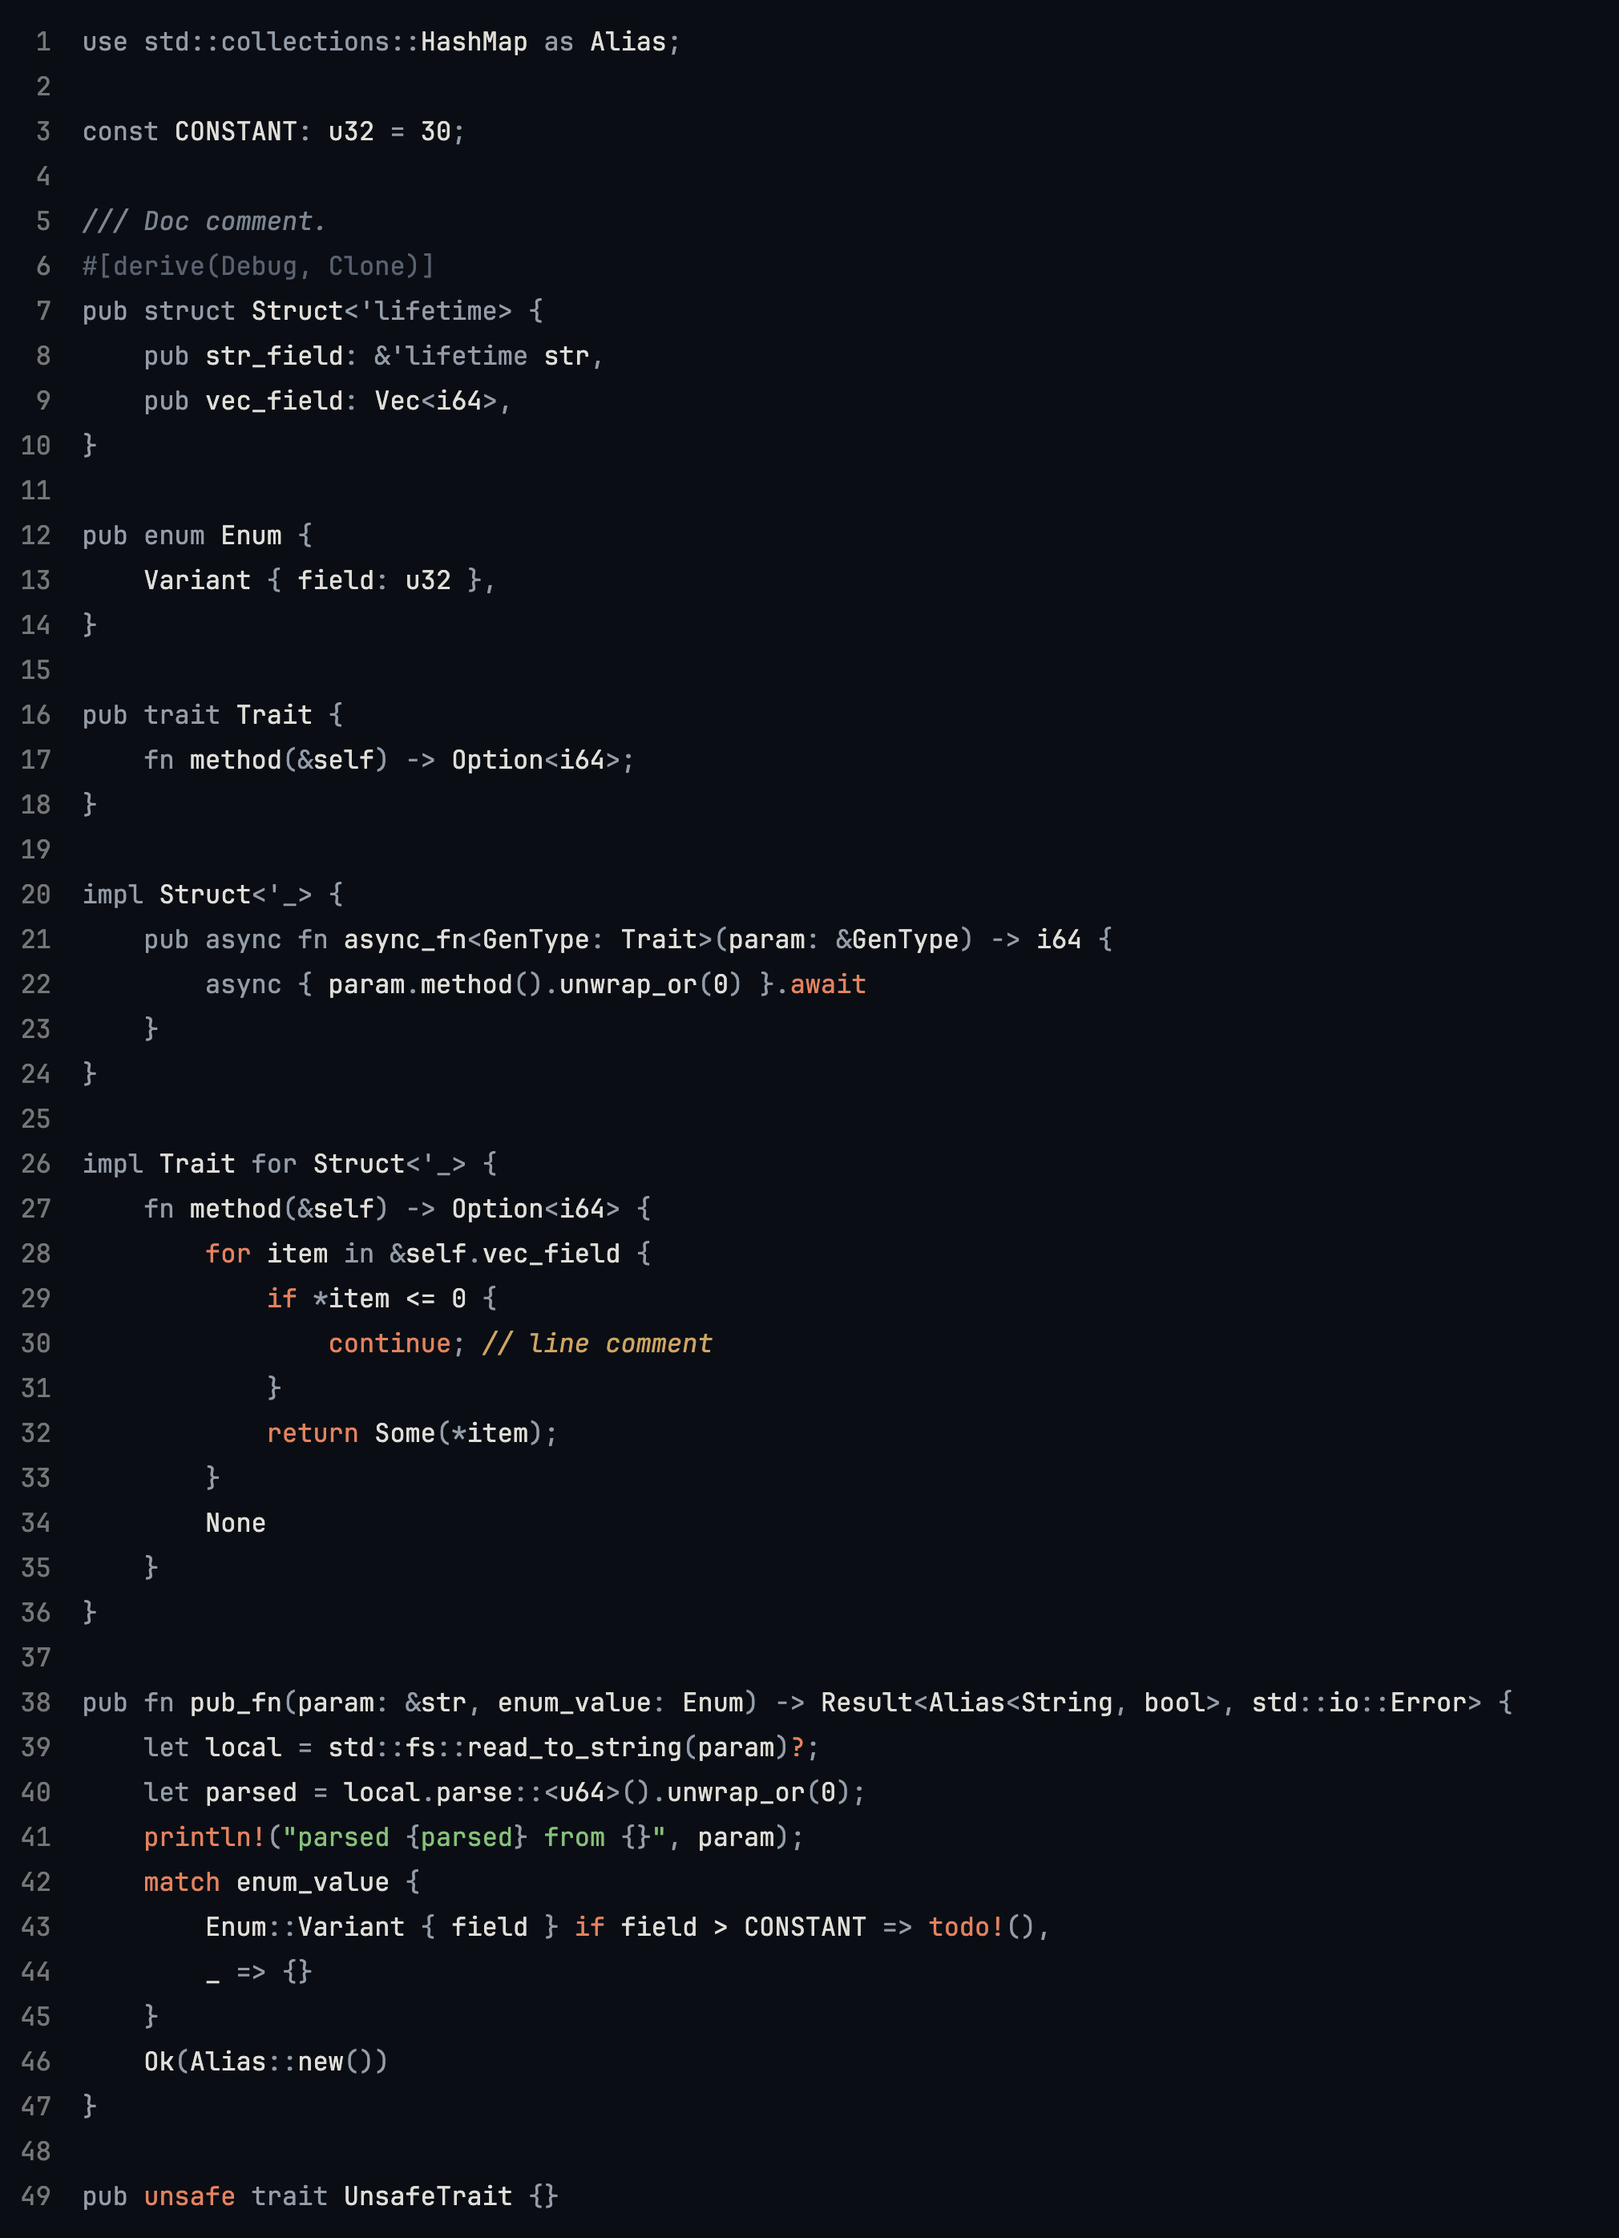
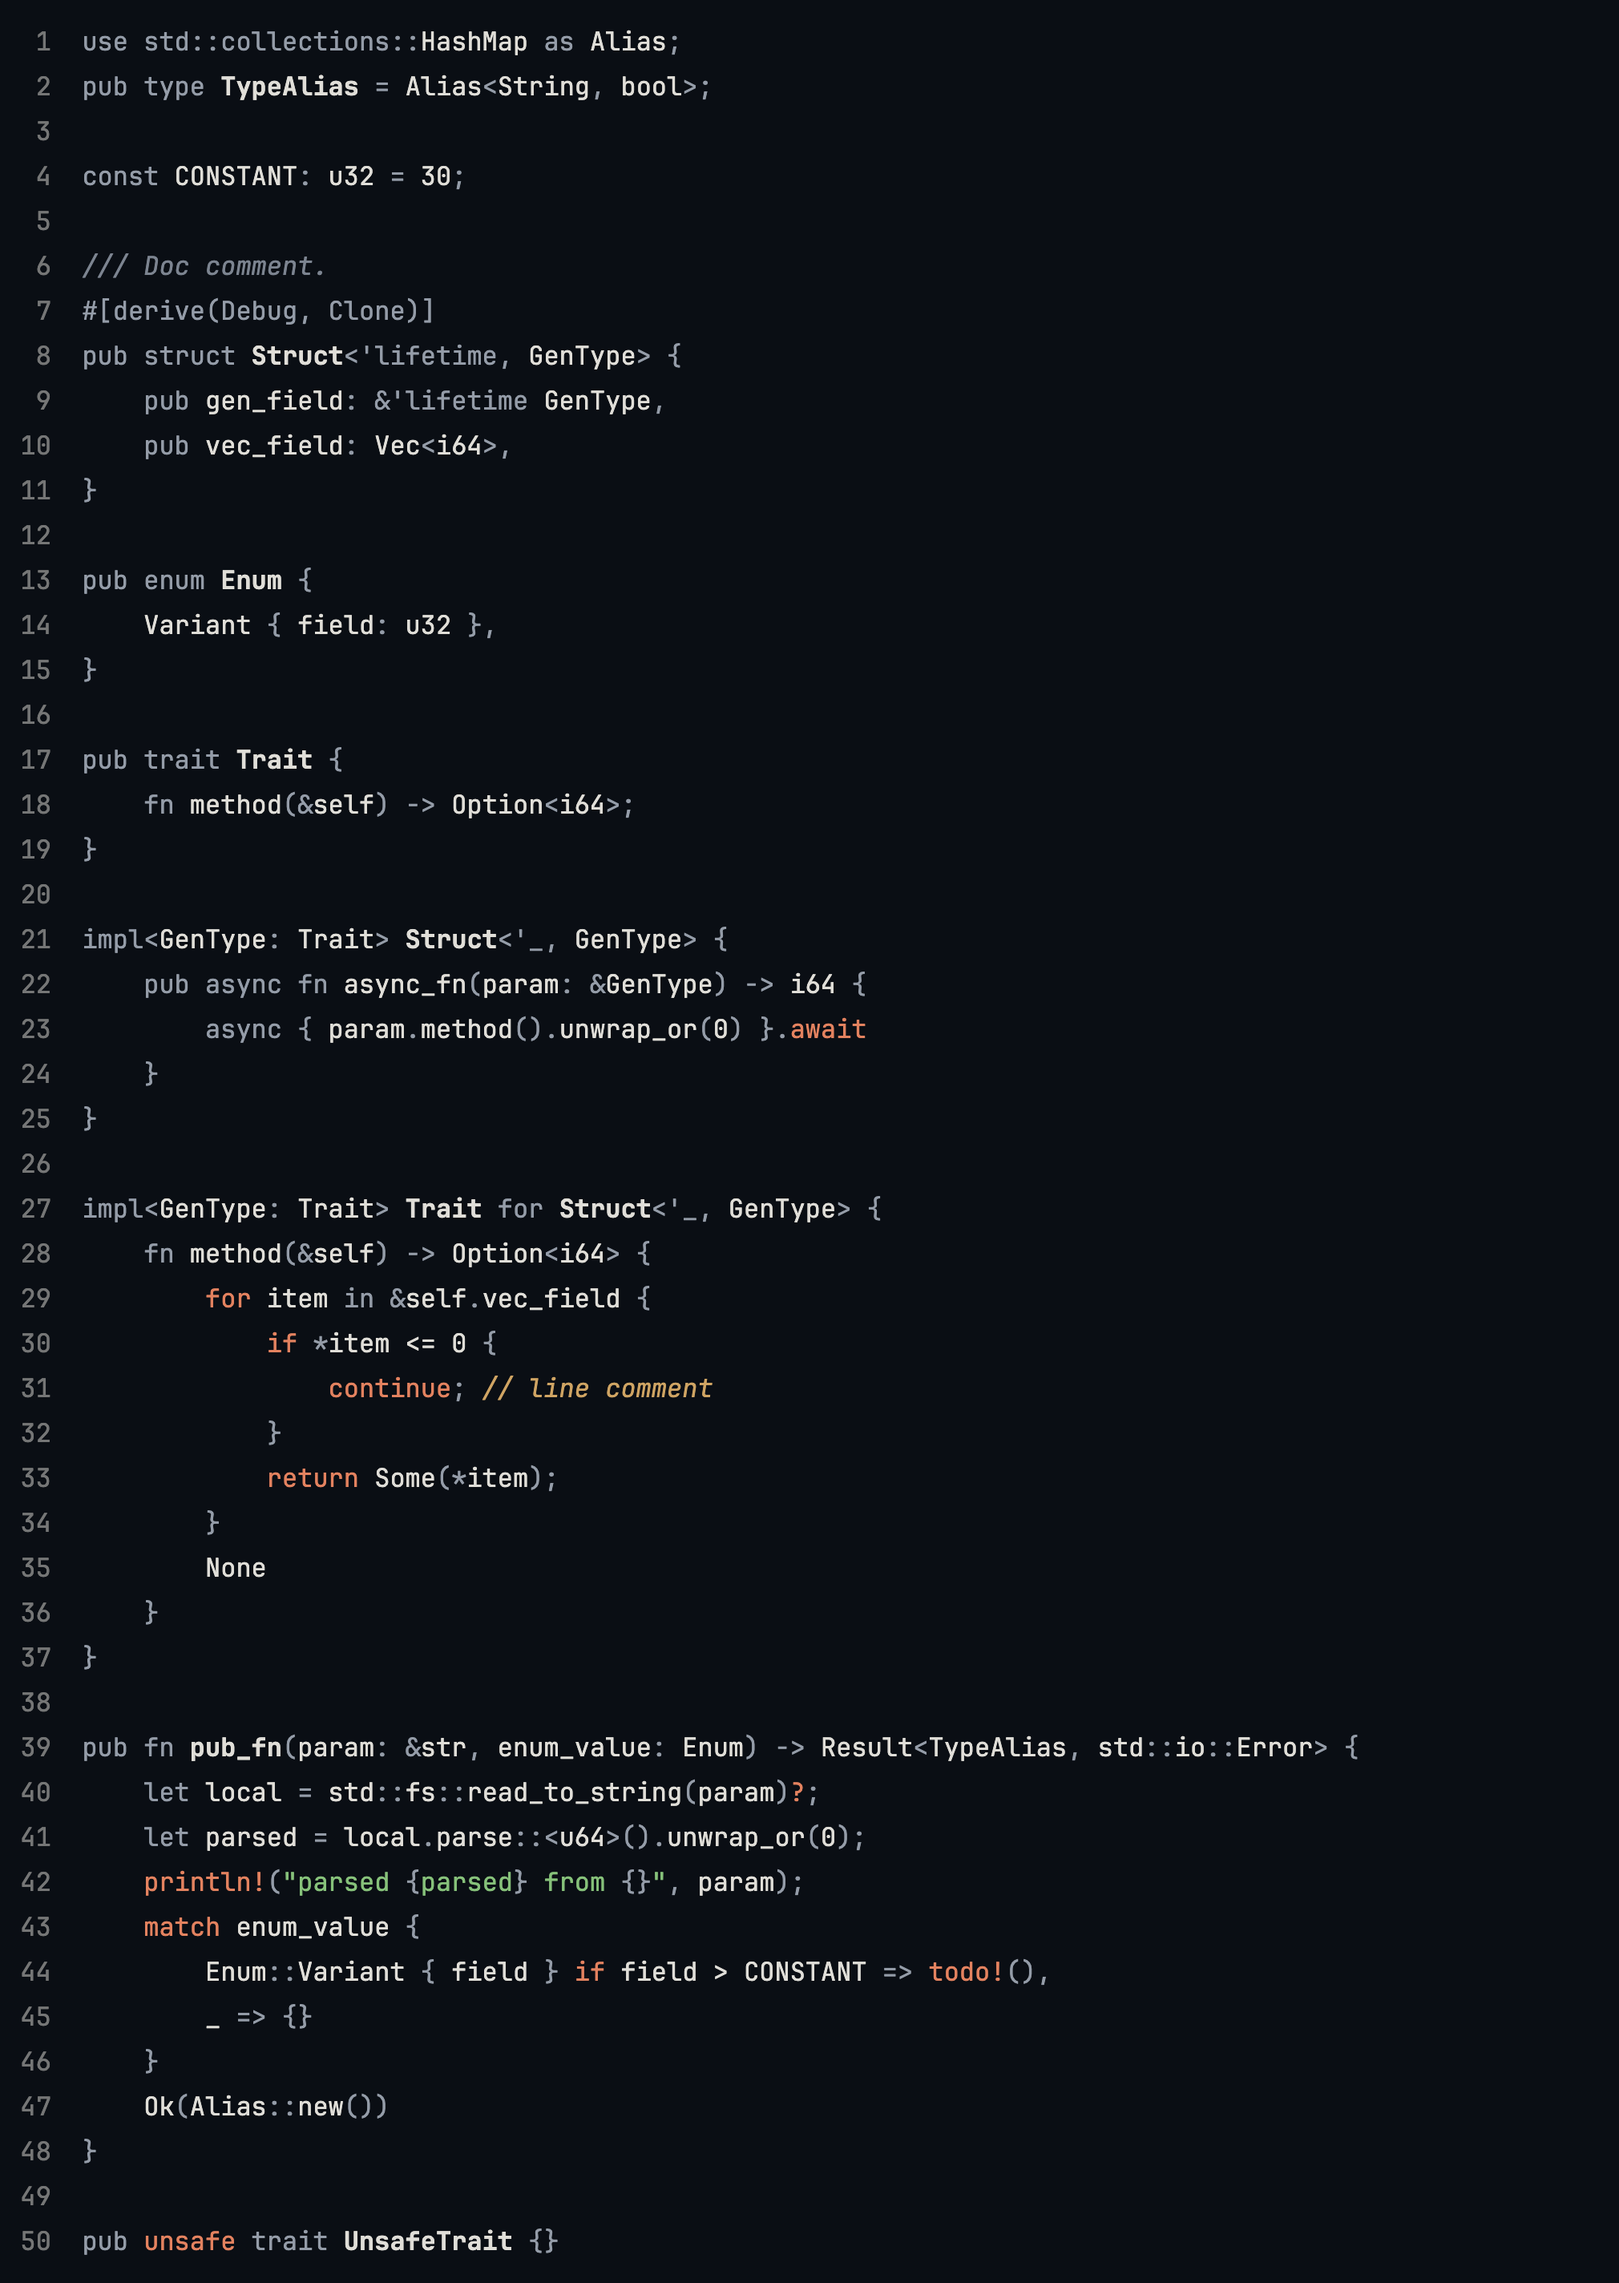
Bold type names at their definition (#13)

diff --git a/tools/render.js b/tools/render.js
@@ -1,0 +1,100 @@
+const fs = require('fs');
+const os = require('os');
+const path = require('path');
+const { execFileSync } = require('child_process');
+const vsctm = require('vscode-textmate');
+const oniguruma = require('vscode-oniguruma');
+
+const [language, output] = process.argv.slice(2);
+if (!language || !output) {
+  console.error('usage: node tools/render.js <rust|python> <out.png>');
+  process.exit(1);
+}
+
+const ROOT = path.join(__dirname, '..');
+const VSCODE_EXTENSIONS = '/Applications/Visual Studio Code.app/Contents/Resources/app/extensions';
+const CHROME = '/Applications/Google Chrome.app/Contents/MacOS/Google Chrome';
+
+const languages = {
+  rust: { scope: 'source.rust', grammar: 'rust/syntaxes/rust.tmLanguage.json', sample: 'sample.rs' },
+  python: { scope: 'source.python', grammar: 'python/syntaxes/MagicPython.tmLanguage.json', sample: 'sample.py' },
+}[language];
+
+const grammarPaths = {
+  [languages.scope]: path.join(VSCODE_EXTENSIONS, languages.grammar),
+  'source.regexp.python': path.join(VSCODE_EXTENSIONS, 'python/syntaxes/MagicRegExp.tmLanguage.json'),
+  [`navigate.injection.${language}`]: path.join(ROOT, 'vscode/syntaxes', `${language}.injection.json`),
+};
+
+const theme = JSON.parse(fs.readFileSync(path.join(ROOT, 'vscode/themes/navigate-dark-color-theme.json')));
+const background = theme.colors['editor.background'];
+const foreground = theme.colors['editor.foreground'];
+
+const wasm = fs.readFileSync(require.resolve('vscode-oniguruma/release/onig.wasm')).buffer;
+const onigLib = oniguruma.loadWASM(wasm).then(() => ({
+  createOnigScanner: (patterns) => new oniguruma.OnigScanner(patterns),
+  createOnigString: (text) => new oniguruma.OnigString(text),
+}));
+
+const registry = new vsctm.Registry({
+  onigLib,
+  theme: { name: theme.name, settings: [{ settings: { foreground } }, ...theme.tokenColors] },
+  loadGrammar: async (scopeName) => {
+    const file = grammarPaths[scopeName];
+    return file ? vsctm.parseRawGrammar(fs.readFileSync(file).toString(), file) : null;
+  },
+  getInjections: (scopeName) => (scopeName === languages.scope ? [`navigate.injection.${language}`] : []),
+});
+
+const FONT_STYLE_OFFSET = 11;
+const FONT_STYLE_MASK = 0b1111 << FONT_STYLE_OFFSET;
+const FOREGROUND_OFFSET = 15;
+const FOREGROUND_MASK = 0b111111111 << FOREGROUND_OFFSET;
+const ITALIC = 1;
+const BOLD = 2;
+
+const escape = (text) => text.replace(/&/g, '&amp;').replace(/</g, '&lt;').replace(/>/g, '&gt;');
+
+const LINE_HEIGHT = 28;
+const PADDING = 24;
+const WIDTH = 1010;
+
+(async () => {
+  const grammar = await registry.loadGrammar(languages.scope);
+  const colorMap = registry.getColorMap();
+  const lines = fs.readFileSync(path.join(ROOT, 'sample', languages.sample), 'utf8').replace(/\n$/, '').split('\n');
+  let ruleStack = vsctm.INITIAL;
+  const rows = lines.map((line, index) => {
+    const { tokens, ruleStack: next } = grammar.tokenizeLine2(line, ruleStack);
+    ruleStack = next;
+    let html = `<span class="number">${index + 1}</span>`;
+    for (let i = 0; i < tokens.length; i += 2) {
+      const end = i + 2 < tokens.length ? tokens[i + 2] : line.length;
+      const meta = tokens[i + 1];
+      const style = (meta & FONT_STYLE_MASK) >>> FONT_STYLE_OFFSET;
+      const color = colorMap[(meta & FOREGROUND_MASK) >>> FOREGROUND_OFFSET];
+      const css = [`color:${color}`, style & ITALIC && 'font-style:italic', style & BOLD && 'font-weight:bold'].filter(Boolean).join(';');
+      html += `<span style="${css}">${escape(line.slice(tokens[i], end))}</span>`;
+    }
+    return `<div>${html}</div>`;
+  });
+
+  const page = `<!doctype html><meta charset="utf-8"><style>
+body{margin:0;background:${background}}
+pre{margin:0;padding:12px 24px 12px 8px;font:16px/${LINE_HEIGHT}px "JetBrains Mono";color:${foreground};display:inline-block;font-variant-ligatures:none;font-feature-settings:"calt" 0,"liga" 0}
+.number{color:${foreground}80;display:inline-block;width:2.5ch;text-align:right;margin-right:2ch}
+</style><pre>${rows.join('')}</pre>`;
+
+  const htmlFile = path.join(fs.mkdtempSync(path.join(os.tmpdir(), 'navigate-')), `${language}.html`);
+  fs.writeFileSync(htmlFile, page);
+  execFileSync(CHROME, [
+    '--headless=new',
+    '--disable-gpu',
+    '--hide-scrollbars',
+    '--force-device-scale-factor=2',
+    `--window-size=${WIDTH},${lines.length * LINE_HEIGHT + PADDING}`,
+    `--screenshot=${path.resolve(output)}`,
+    `file://${htmlFile}`,
+  ], { stdio: 'ignore' });
+  console.log(`Written ${output}`);
+})();

diff --git a/vscode/src/theme.js b/vscode/src/theme.js
@@ -13,6 +13,21 @@ const tokenColors = (c) => [
     settings: { foreground: c.important },
   },
   {
+    name: 'Bold: type names at their definition, top-level functions',
+    scope: scopes({
+      rust: [
+        'entity.name.type.struct',
+        'entity.name.type.enum',
+        'entity.name.type.trait',
+        'entity.name.type.declaration',
+        'meta.impl.rust > entity.name.type',
+        'meta.toplevel.rust meta.function.definition.rust entity.name.function',
+      ],
+      python: ['entity.name.type.class', 'meta.toplevel.python meta.function.python entity.name.function'],
+    }),
+    settings: { fontStyle: 'bold' },
+  },
+  {
     name: 'Italic: comments',
     scope: scopes({
       any: ['comment', 'comment punctuation.definition.comment'],

diff --git a/sample/sample.rs b/sample/sample.rs
@@ -1,11 +1,12 @@
 use std::collections::HashMap as Alias;
+pub type TypeAlias = Alias<String, bool>;
 
 const CONSTANT: u32 = 30;
 
 /// Doc comment.
 #[derive(Debug, Clone)]
-pub struct Struct<'lifetime> {
-    pub str_field: &'lifetime str,
+pub struct Struct<'lifetime, GenType> {
+    pub gen_field: &'lifetime GenType,
     pub vec_field: Vec<i64>,
 }
 
@@ -17,13 +18,13 @@ pub trait Trait {
     fn method(&self) -> Option<i64>;
 }
 
-impl Struct<'_> {
-    pub async fn async_fn<GenType: Trait>(param: &GenType) -> i64 {
+impl<GenType: Trait> Struct<'_, GenType> {
+    pub async fn async_fn(param: &GenType) -> i64 {
         async { param.method().unwrap_or(0) }.await
     }
 }
 
-impl Trait for Struct<'_> {
+impl<GenType: Trait> Trait for Struct<'_, GenType> {
     fn method(&self) -> Option<i64> {
         for item in &self.vec_field {
             if *item <= 0 {
@@ -35,7 +36,7 @@ impl Trait for Struct<'_> {
     }
 }
 
-pub fn pub_fn(param: &str, enum_value: Enum) -> Result<Alias<String, bool>, std::io::Error> {
+pub fn pub_fn(param: &str, enum_value: Enum) -> Result<TypeAlias, std::io::Error> {
     let local = std::fs::read_to_string(param)?;
     let parsed = local.parse::<u64>().unwrap_or(0);
     println!("parsed {parsed} from {}", param);

diff --git a/sample/sample.py b/sample/sample.py
@@ -13,7 +13,7 @@ class Kind(Enum):
 
 
 @dataclass(frozen=True)
-class Struct:
+class Struct[GenType]:
     str_field: str
     vec_field: list[int]
 

diff --git a/DESIGN.md b/DESIGN.md
@@ -4,6 +4,7 @@ Colors come from syntax only, the theme never guesses whether a name is a type o
 
 ## Important
 
+- **Bold**: top-level definitions: `struct`, `enum`, `trait`, `type`, `impl` headers, `class`.
 - ![](swatches/E3825F.png) Brown: control flow, as it changes where the code goes next
   - Rust: `return`, `break`, `continue`, `if`, `match`, `for`, `.await`, `?`, `unsafe`, and macros, as they might hide control flow: `bail!`, `todo!`
   - Python: `return`, `break`, `continue`, `if`, `match`, `for`, `await`, `yield`, `try`, `except`, `raise`, `assert`

diff --git a/AGENTS.md b/AGENTS.md
@@ -8,3 +8,5 @@ We could also probably get some inspiration from Alabaster theme or Pustota Ligh
 The theme must work for anyone who just installs it. Never change editor settings to get an effect. Design for the syntax grammar only. Semantic tokens are an optional bonus.
 
 UPSTREAM.md tracks gaps we fix upstream.
+
+README screenshots: `cd tools && npm install && npm run render`. [tools/render.js](tools/render.js) tokenizes the samples with the VS Code grammars and this theme, then screenshots the HTML with headless Chrome.
